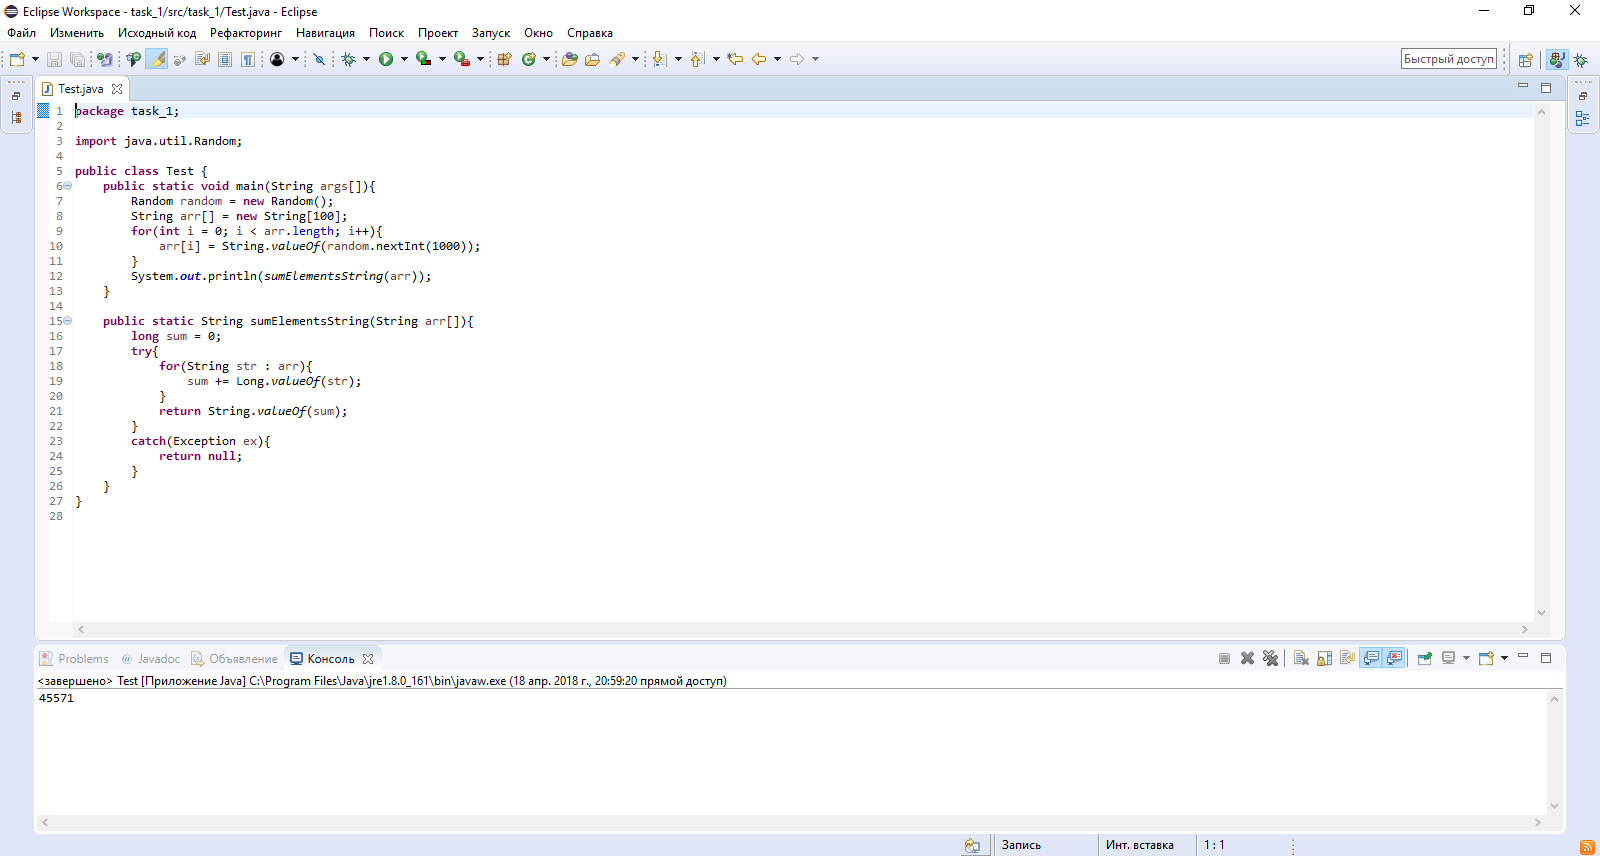
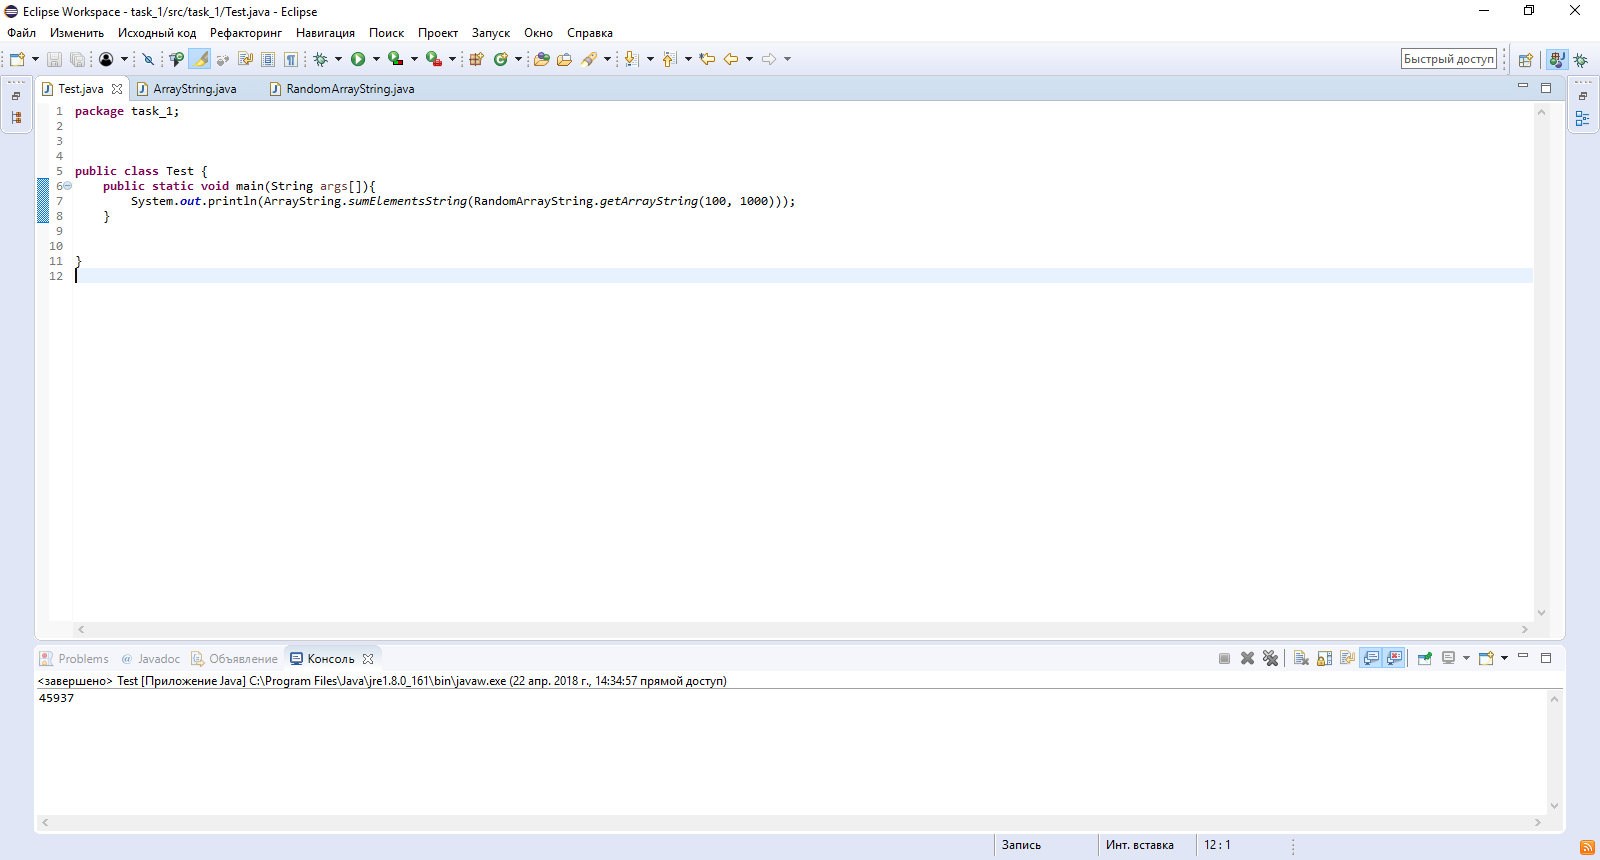
Fix task_1, task_2. Wrapper in class.

diff --git a/task_1/task_1/src/task_1/Test.java b/task_1/task_1/src/task_1/Test.java
@@ -1,27 +1,11 @@
 package task_1;
 
-import java.util.Random;
+
 
 public class Test {
-	public static void main(String args[]){
-        Random random = new Random();
-        String arr[] = new String[100];
-        for(int i = 0; i < arr.length; i++){
-            arr[i] = String.valueOf(random.nextInt(1000));
-        }
-        System.out.println(sumElementsString(arr));
+	public static void main(String args[]){ 
+        System.out.println(ArrayString.sumElementsString(RandomArrayString.getArrayString(100, 1000)));
     }
 	
-	public static String sumElementsString(String arr[]){
-        long sum = 0;
-        try{
-            for(String str : arr){
-                sum += Long.valueOf(str);
-            }
-            return String.valueOf(sum);
-        }
-        catch(Exception ex){    
-        	return null;
-        }
-    }
+	
 }

diff --git a/task_2/task_2/src/task_2/Test.java b/task_2/task_2/src/task_2/Test.java
@@ -6,13 +6,6 @@ public class Test {
 	public static void main(String args[]) {
 		Random random = new Random();
 		int tmp = 100 + random.nextInt(900);
-		System.out.printf("Number: %d; Sum digits: %d", tmp, sumDigitsNumber(tmp));
-	}
-	
-	public static int sumDigitsNumber(int number) {
-		if (number == 0) {
-			return 0;
-		}
-		return number % 10 + sumDigitsNumber(number / 10);
+		System.out.printf("Number: %d; Sum digits: %d", tmp, Number.sumDigitsNumber(tmp));
 	}
 }

diff --git a/task_1/task_1/src/task_1/RandomArrayString.java b/task_1/task_1/src/task_1/RandomArrayString.java
@@ -1,0 +1,16 @@
+package task_1;
+
+import java.util.Random;
+
+public class RandomArrayString {
+	public static String[] getArrayString(int count, int limit) {
+		count = Math.abs(count);
+		limit = Math.abs(limit);
+		Random random = new Random();
+	    String arr[] = new String[count];
+	    for(int i = 0; i < arr.length; i++){
+	        arr[i] = String.valueOf(random.nextInt(limit));
+	    }
+	    return arr;
+	}	
+}

diff --git a/task_1/task_1/src/task_1/ArrayString.java b/task_1/task_1/src/task_1/ArrayString.java
@@ -1,0 +1,16 @@
+package task_1;
+
+public class ArrayString {
+	public static String sumElementsString(String arr[]){
+        long sum = 0;
+        try{
+            for(String str : arr){
+                sum += Long.valueOf(str);
+            }
+            return String.valueOf(sum);
+        }
+        catch(Exception ex){    
+        	return null;
+        }
+    }
+}

diff --git a/task_2/task_2/src/task_2/Number.java b/task_2/task_2/src/task_2/Number.java
@@ -1,0 +1,10 @@
+package task_2;
+
+public class Number {
+	public static int sumDigitsNumber(int number) {
+		if (number == 0) {
+			return 0;
+		}
+		return number % 10 + sumDigitsNumber(number / 10);
+	}
+}
